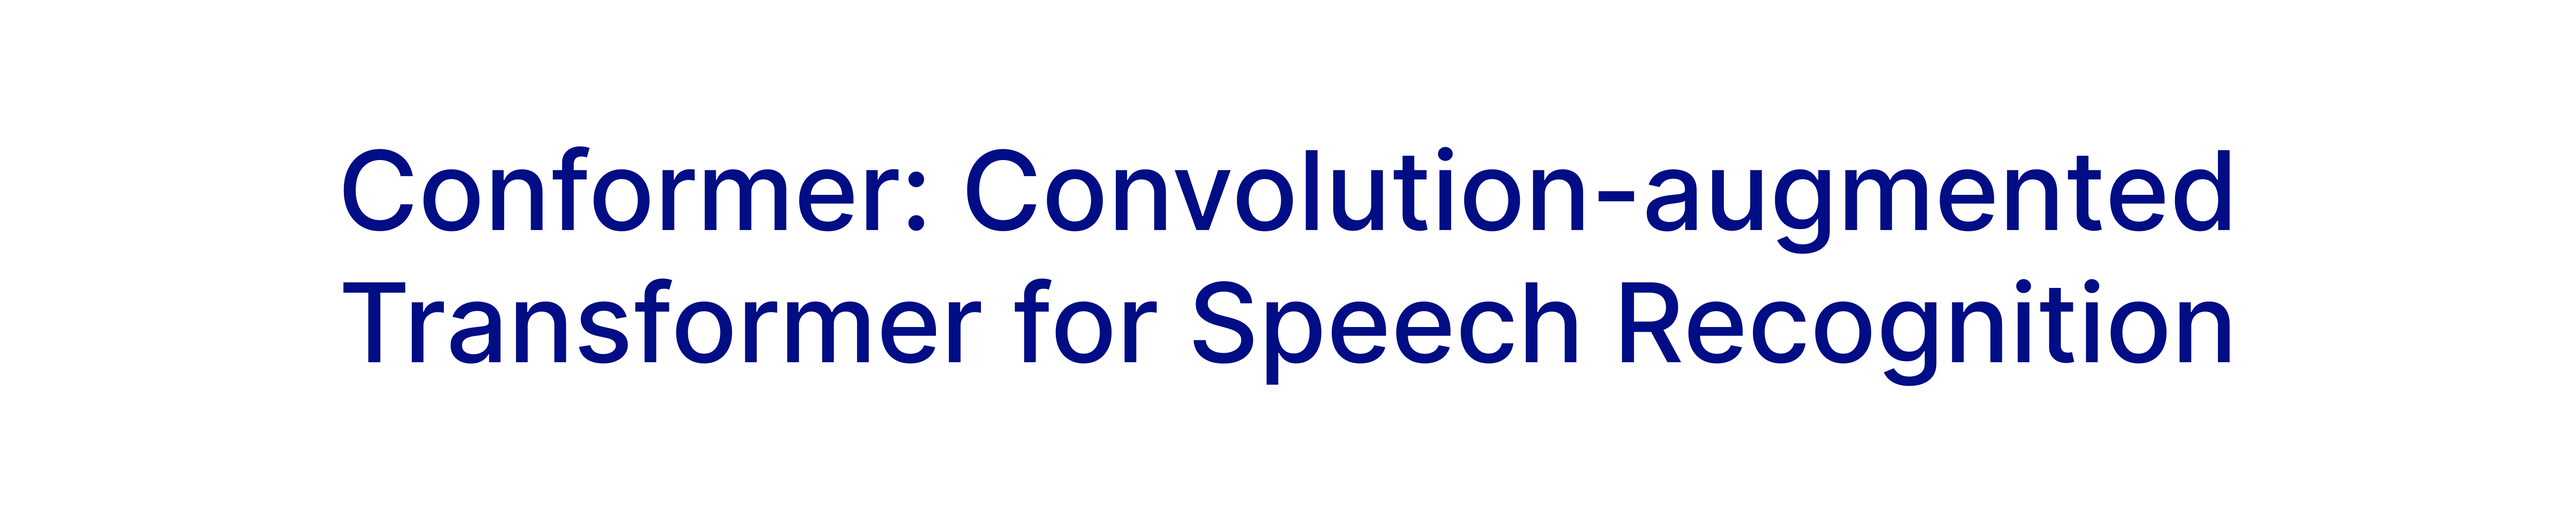
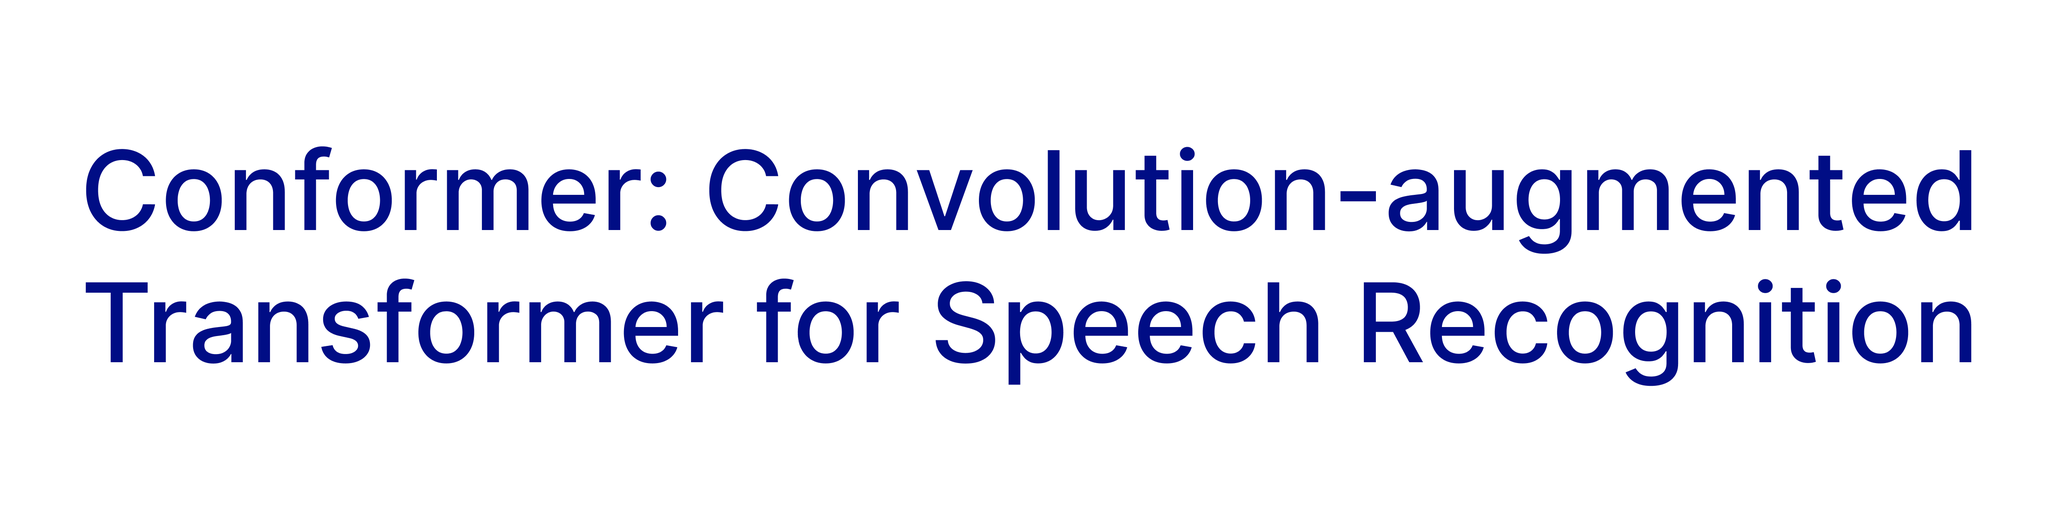
update readme

Changed region(s): [[0.0312, 0.2775, 0.9688, 0.4933], [0.0312, 0.5242, 0.9688, 0.7708]]

diff --git a/README.md b/README.md
@@ -1,4 +1,6 @@
-<img src="docs/title.png" width="100%">
+<div align="center">
+    <img src="docs/title.png" width="800px">
+</div>
 
 <br/>
  <div align="center">
